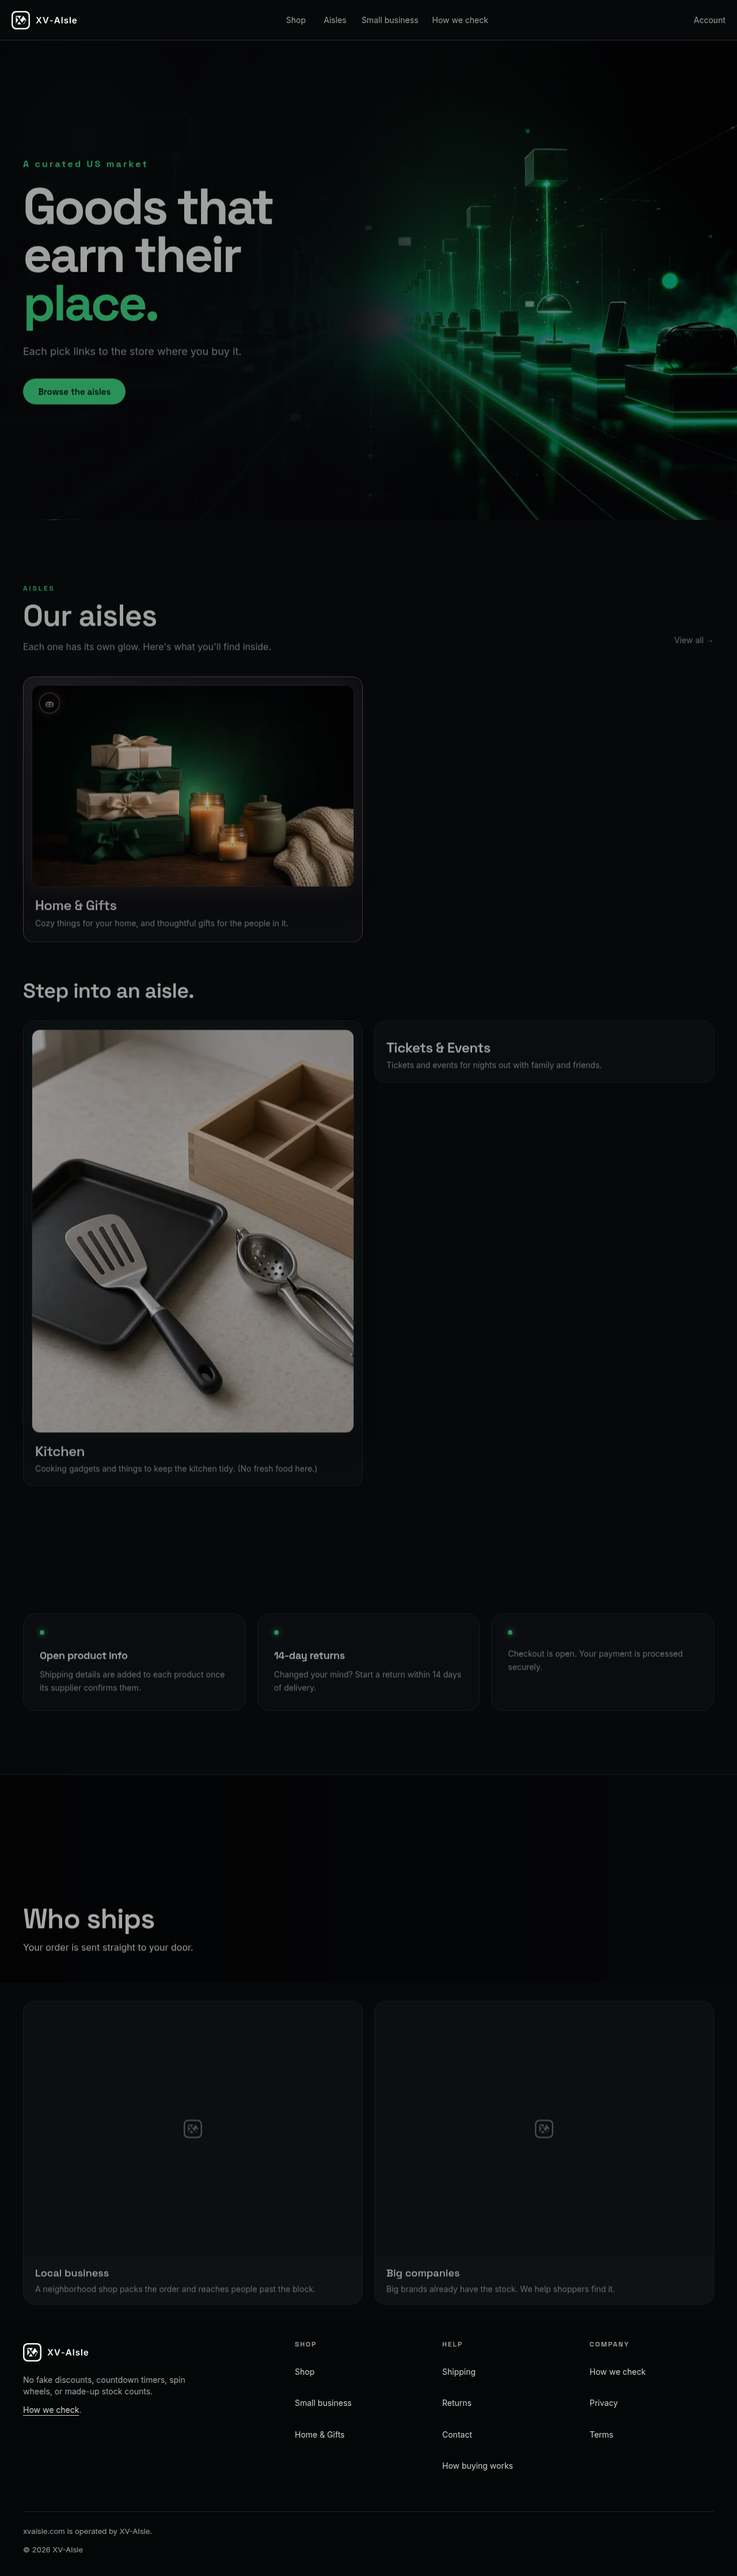
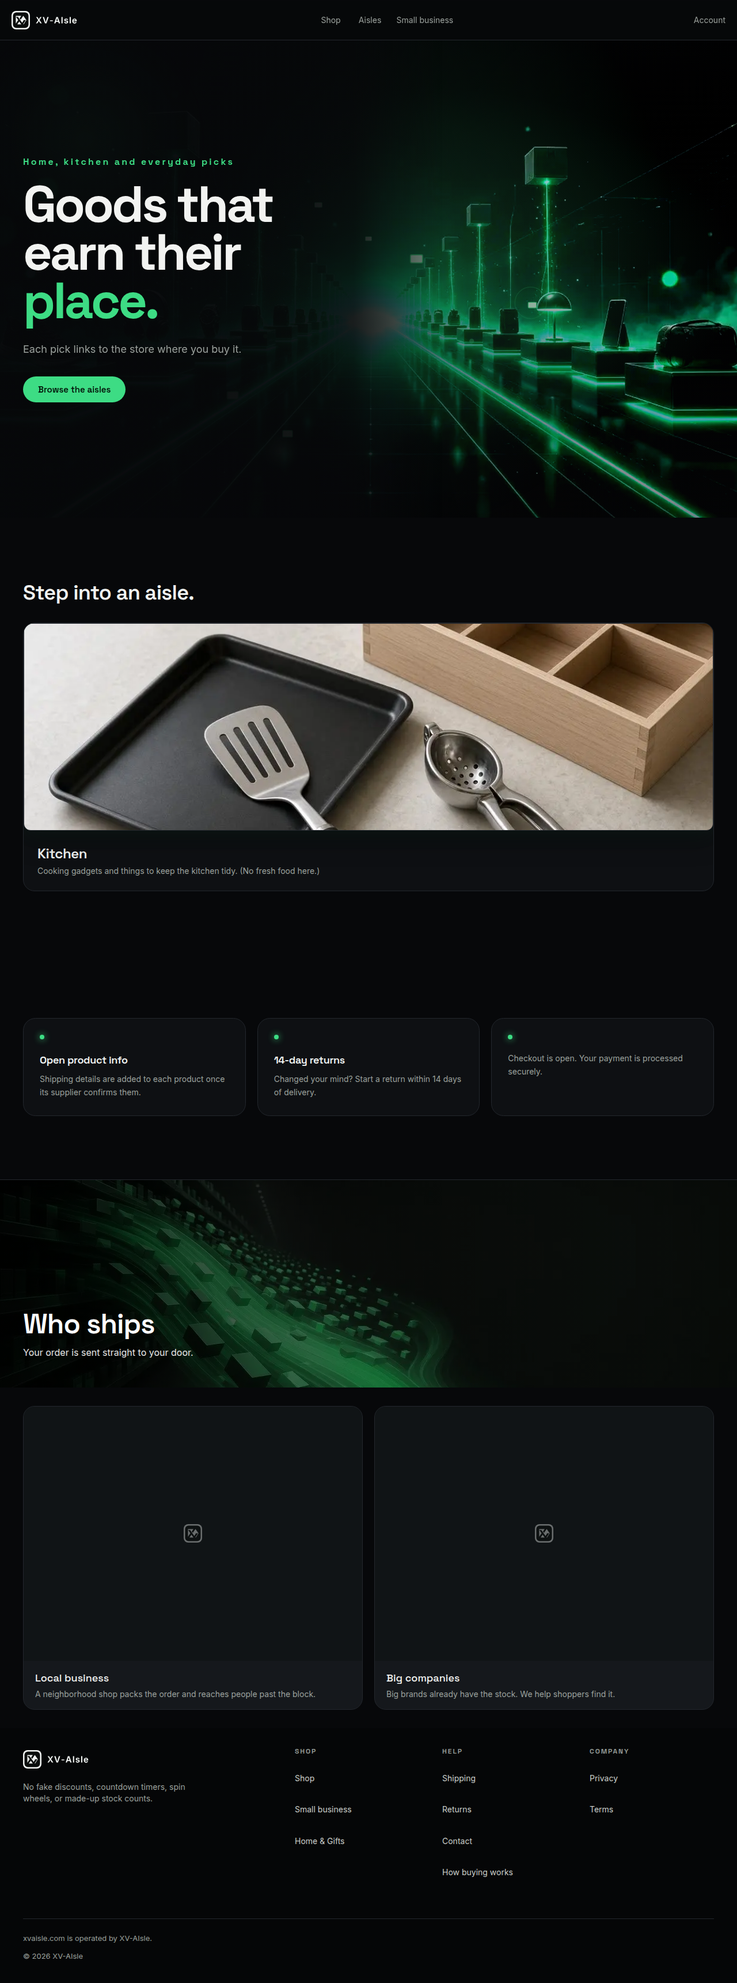
feat: hide the homepage night aisles and 404 coming-soon products
The night-aisle block stays off until SHOW_HOME_AISLES is set, so Kitchen is the only homepage tile. Coming soon product pages match the listings API, and a lone Zazzle card sizes to its text.

diff --git a/scripts/check-affiliates.ts b/scripts/check-affiliates.ts
@@ -26,7 +26,7 @@ async function main() {
   const { AffiliateSpot, HomeGiftSpots } = await import("../src/components/affiliate-spot");
   const { DepartmentGrid } = await import("../src/components/department-grid");
   const { NightStalls } = await import("../src/components/night-stalls");
-  const { homeGiftsListed, homepageMoreAisles, homepageNightSlugs, shopStallTabs, visibleItemCount } = await import("../src/lib/home-aisles");
+  const { homeGiftsListed, homepageMoreAisles, homepageNightSlugs, shopStallTabs, showHomeAisles, visibleItemCount } = await import("../src/lib/home-aisles");
   const { ShopScreen, default: ShopPage } = await import("../src/app/shop/page");
 
   for (const root of ["src", "docs"]) {
@@ -230,16 +230,23 @@ async function main() {
     }),
   );
   assert(homeStocked.includes("Our aisles") && homeStocked.includes('href="/shop"'), "a stocked shop restores Our aisles and the shop links");
+  assert(!showHomeAisles(), "the homepage night-aisle block is off unless SHOW_HOME_AISLES is set");
+  const launchMore = more.filter((tile) => tile.href !== "/aisles/tickets-and-events");
   const homeLive = renderToStaticMarkup(
     createElement(JoinScreen, {
       checkoutLine: "Cards are checked on this site.",
       listings: [],
-      nightSlugs: homepageNightSlugs([]),
-      moreAisles: more,
+      nightSlugs: [],
+      moreAisles: launchMore,
     }),
   );
-  assert(homeLive.includes("Our aisles") && homeLive.includes('href="/shop?aisle=home-and-gifts"'), "the live homepage shows Home & Gifts");
-  assert(homeLive.includes('href="/aisles/tickets-and-events"') && !homeLive.includes("dept-grid-single"), "the live homepage shows Tickets beside Kitchen");
+  assert(!homeLive.includes(">Our aisles<") && !homeLive.includes("aisle-stall"), "the launch homepage hides the night-aisle block");
+  assert(homeLive.includes("dept-grid-single") && homeLive.includes('href="/aisles/kitchen"') && !homeLive.includes("tickets-and-events"), "Kitchen is the only homepage aisle tile");
+  const previousAisles = process.env.SHOW_HOME_AISLES;
+  process.env.SHOW_HOME_AISLES = "1";
+  assert(showHomeAisles(), "SHOW_HOME_AISLES=1 turns the night-aisle block back on");
+  if (previousAisles == null) delete process.env.SHOW_HOME_AISLES;
+  else process.env.SHOW_HOME_AISLES = previousAisles;
   const emptyShop = renderToStaticMarkup(createElement(ShopScreen, { slug: "", listings: [] }));
   const shopGridSource = readFileSync(join(process.cwd(), "src/components/shop-grid.tsx"), "utf8");
   assert(shopGridSource.includes("Our current picks live in the aisles."), "the empty-aisle panel copy stays in the source");

diff --git a/src/app/(home)/page.tsx b/src/app/(home)/page.tsx
@@ -4,7 +4,7 @@ import type { ShopCard } from "@/components/shop-grid";
 import { checkoutOpenLine } from "@/lib/checkout-open";
 import { AccountProvider } from "@/lib/account-store";
 import { showShopPrices } from "@/lib/shop-prices";
-import { homepageMoreAisles, homepageNightSlugs } from "@/lib/home-aisles";
+import { homepageMoreAisles, homepageNightSlugs, showHomeAisles } from "@/lib/home-aisles";
 import { publicGridListings } from "@/lib/server/shop-catalog";
 import { viewerIsOperator } from "@/lib/server/require-operator";
 import { stripeTestMode } from "@/lib/server/stripe";
@@ -16,6 +16,8 @@ export default async function Page() {
   const checkoutLine = checkoutOpenLine(stripeTestMode());
   const operator = await viewerIsOperator();
   const listings = publicGridListings() as ShopCard[];
+  const nightsOn = showHomeAisles();
+  const moreAisles = homepageMoreAisles(listings).filter((tile) => nightsOn || tile.href !== "/aisles/tickets-and-events");
   return (
     <>
       <link rel="preload" href={HERO_POSTER} as="image" fetchPriority="high" />
@@ -25,8 +27,8 @@ export default async function Page() {
           operator={operator}
           showPrices={showShopPrices()}
           listings={listings}
-          nightSlugs={homepageNightSlugs(listings)}
-          moreAisles={homepageMoreAisles(listings)}
+          nightSlugs={nightsOn ? homepageNightSlugs(listings) : []}
+          moreAisles={moreAisles}
         />
       </AccountProvider>
     </>

diff --git a/src/app/shop/[productId]/page.tsx b/src/app/shop/[productId]/page.tsx
@@ -34,7 +34,13 @@ export async function generateMetadata({ params }: { params: Promise<{ productId
   const { productId } = await params;
   ensureStarterShelf();
   const listing = getListing(productId);
-  if (!listing || !visibleOnShop(listing) || listingLoss(listing) || !hasRealProductPhoto(listing.image)) {
+  if (
+    !listing ||
+    !visibleOnShop(listing) ||
+    listingLoss(listing) ||
+    !hasRealProductPhoto(listing.image) ||
+    shopperListingOmitted(listing)
+  ) {
     return { title: "Shop · XV-AIsle" };
   }
   const shown = publicListing(listing, isSampleListing(listing));
@@ -71,7 +77,15 @@ export default async function ProductPage({
   if (canceled) releaseHeldStock(canceled, productId);
   ensureStarterShelf();
   const listing = getListing(productId);
-  if (!listing || !visibleOnShop(listing) || listingLoss(listing) || !hasRealProductPhoto(listing.image)) notFound();
+  if (
+    !listing ||
+    !visibleOnShop(listing) ||
+    listingLoss(listing) ||
+    !hasRealProductPhoto(listing.image) ||
+    shopperListingOmitted(listing)
+  ) {
+    notFound();
+  }
   const aisle = aisleKey(listing);
   const pricesOn = showShopPrices();
   const picks: AislePick[] = aisle

diff --git a/scripts/check-shop-polish.ts b/scripts/check-shop-polish.ts
@@ -327,6 +327,21 @@ async function main() {
     );
   }
   const { default: ProductPage } = await import("../src/app/shop/[productId]/page");
+  let soonHidden = false;
+  try {
+    await ProductPage({ params: Promise.resolve({ productId: "soon-pan" }) });
+  } catch (error) {
+    soonHidden = true;
+    const digest = error instanceof Error ? String((error as { digest?: string }).digest ?? error.message) : "";
+    assert(digest.includes("404"), "a Coming soon product page is not found");
+  }
+  assert(soonHidden, "a Coming soon product page does not render");
+  try {
+    await ProductPage({ params: Promise.resolve({ productId: "ready-pan" }) });
+  } catch (error) {
+    const digest = error instanceof Error ? String((error as { digest?: string }).digest ?? error.message) : "";
+    assert(!digest.includes("404"), "a confirmed product page is not a 404");
+  }
   const hiddenPhotos = [
     ["empty-photo", ""],
     ["mark-photo", "/xv-aisle-mark.svg"],

diff --git a/src/lib/home-aisles.ts b/src/lib/home-aisles.ts
@@ -6,6 +6,12 @@ import { stallProductCount, stallsWithProducts, type StallListing } from "@/lib/
 
 export type { HomeAisleTile };
 
+/** Launch switch. Unset is off, so the homepage night-aisle block stays hidden. */
+export function showHomeAisles(value = process.env.SHOW_HOME_AISLES) {
+  const flag = value?.trim().toLowerCase() ?? "";
+  return flag === "1" || flag === "true" || flag === "on" || flag === "yes";
+}
+
 /** How many linkable items that href actually shows a signed-out shopper. */
 export function visibleItemCount(href: string, listings: readonly StallListing[]) {
   if (href.startsWith("/aisles/")) {

diff --git a/src/app/globals.css b/src/app/globals.css
@@ -3572,17 +3572,20 @@ button.contact-submit {
 }
 
 @media (min-width: 768px) {
-  .partner-spot-solo .partner-card {
-    width: 100%;
-    aspect-ratio: 16 / 9;
-    max-height: 320px;
+  .partner-spot-solo {
+    justify-items: start;
   }
-}
 
-@media (min-width: 1024px) {
   .partner-spot-solo .partner-card {
-    aspect-ratio: 21 / 9;
-    max-height: 360px;
+    width: max-content;
+    max-width: 720px;
+    aspect-ratio: auto;
+    max-height: none;
+  }
+
+  .partner-spot-solo .partner-card-cta {
+    width: max-content;
+    white-space: nowrap;
   }
 }
 
